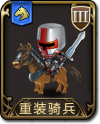
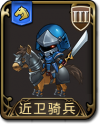
resolve soldier issue

Changed region(s): [[0.12, 0.1694, 0.9, 0.7984], [0.18, 0.8226, 0.48, 0.9435]]

diff --git a/src/main/java/cc/js/sora/fight/serivce/SkillService.java b/src/main/java/cc/js/sora/fight/serivce/SkillService.java
@@ -123,6 +123,7 @@ import cc.js.sora.fight.skill.soldier.Huangjiaqibing;
 import cc.js.sora.fight.skill.soldier.Huonujujishou;
 import cc.js.sora.fight.skill.soldier.Jiamiannvpu;
 import cc.js.sora.fight.skill.soldier.Jinjilianjinshi;
+import cc.js.sora.fight.skill.soldier.Jinweibubing;
 import cc.js.sora.fight.skill.soldier.Jinweiqiangbing;
 import cc.js.sora.fight.skill.soldier.Jinweiqibing;
 import cc.js.sora.fight.skill.soldier.Jiwushen;
@@ -349,7 +350,7 @@ public class SkillService {
 		registerSkill(Skill.Tiankongsheshou, new Tiankongsheshou());
 		registerSkill(Skill.Anjingling, new Anjingling());
 		registerSkill(Skill.Feiwunvshi, new Feiwunvshi());
-		
+		registerSkill(2034L, new Jinweibubing());
 		registerSkill(2035L, new Jiwushen());
 		registerSkill(2036L, new Jinweiqibing());
 		registerSkill(2037L, new Shengtianma());

diff --git a/src/main/java/cc/js/sora/fight/skill/soldier/Jinweibubing.java b/src/main/java/cc/js/sora/fight/skill/soldier/Jinweibubing.java
@@ -1,0 +1,34 @@
+package cc.js.sora.fight.skill.soldier;
+
+import java.util.List;
+
+import com.google.common.collect.Lists;
+
+import cc.js.sora.fight.BuffType;
+import cc.js.sora.fight.Condition;
+import cc.js.sora.fight.Effect;
+import cc.js.sora.fight.Enhance;
+import cc.js.sora.fight.Scope;
+import cc.js.sora.fight.Skill;
+import cc.js.sora.fight.condition.health.SoldierGreaterHealthCondition;
+
+public class Jinweibubing extends Skill {
+
+	@Override
+	public String getName() {
+		// TODO Auto-generated method stub
+		return "近卫步兵";
+	}
+	
+	@Override
+	public Condition getCondition() {
+		return new SoldierGreaterHealthCondition(80);
+	}
+
+	@Override
+	public List<Effect> getEffects() {
+		// TODO Auto-generated method stub
+		return Lists.newArrayList(new Enhance(BuffType.Physic, 45, Scope.Soldier));
+	}
+
+}

diff --git a/DEV.md b/DEV.md
@@ -18,8 +18,11 @@ skill order
 
 伪帝
 sp雪梨
+浦饭
+所有士兵技能
+
+1.057
 欧米伽
 女神化身
 雅贝
 
-1.057
